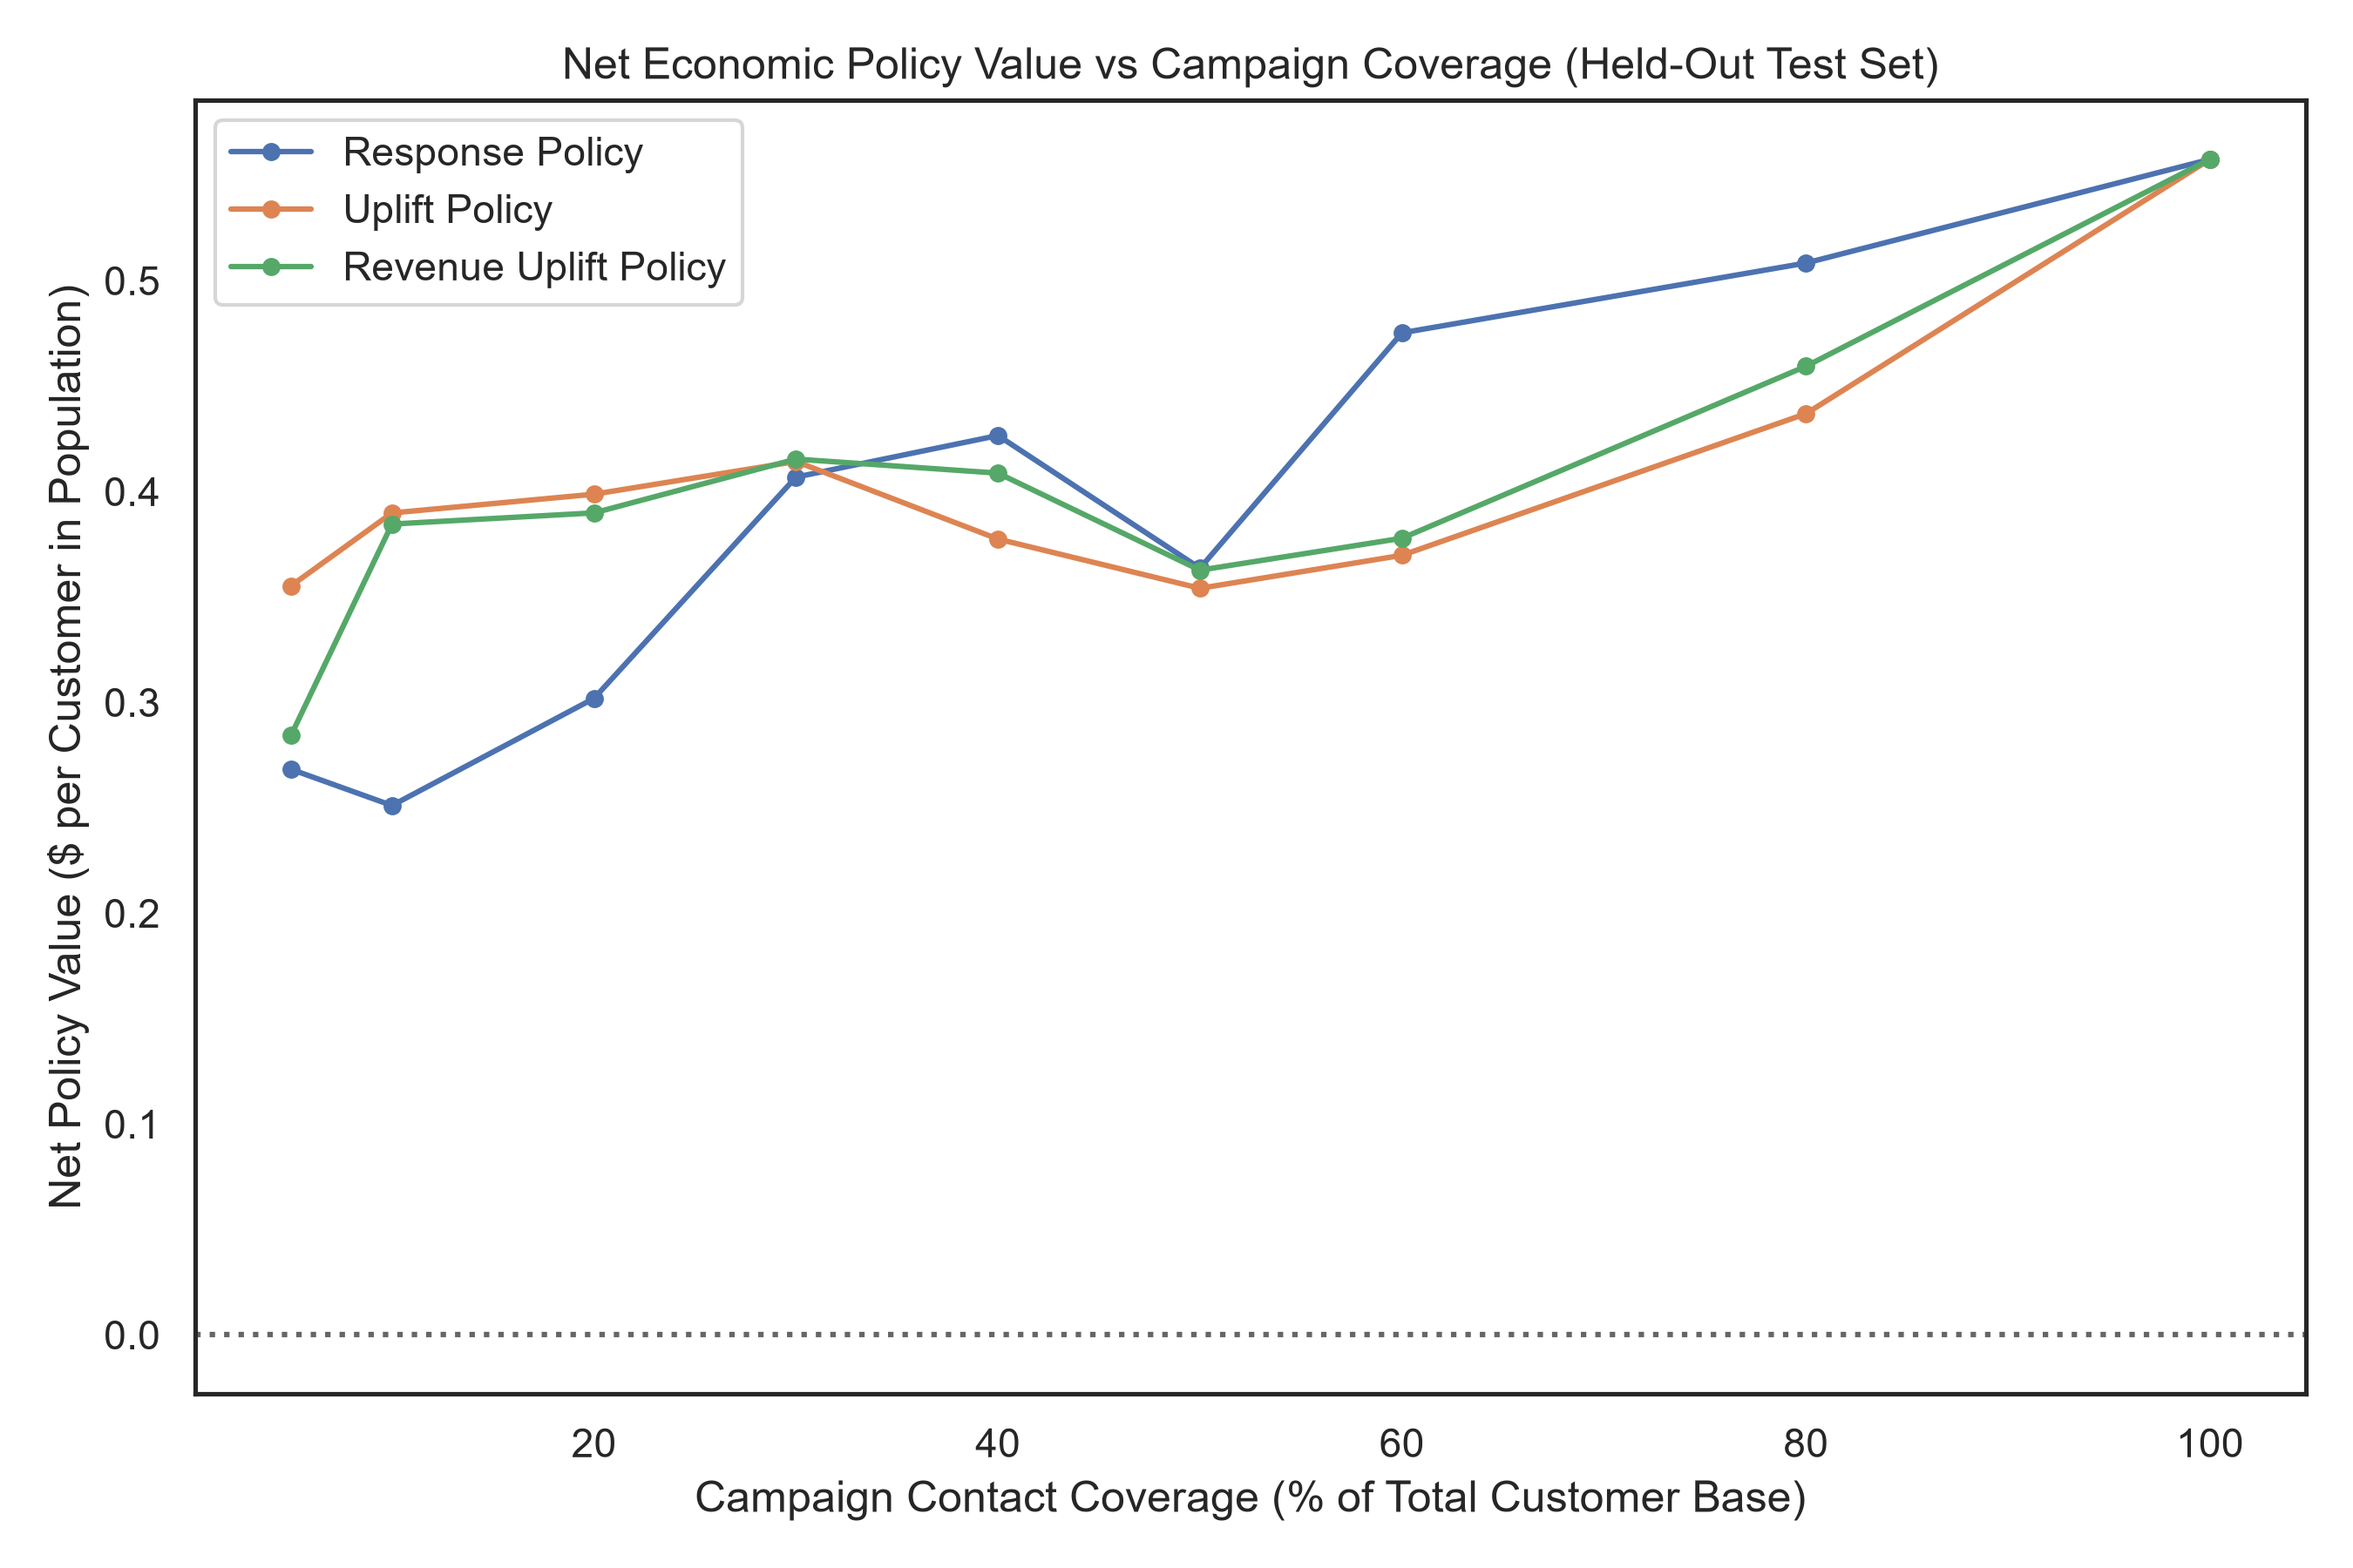
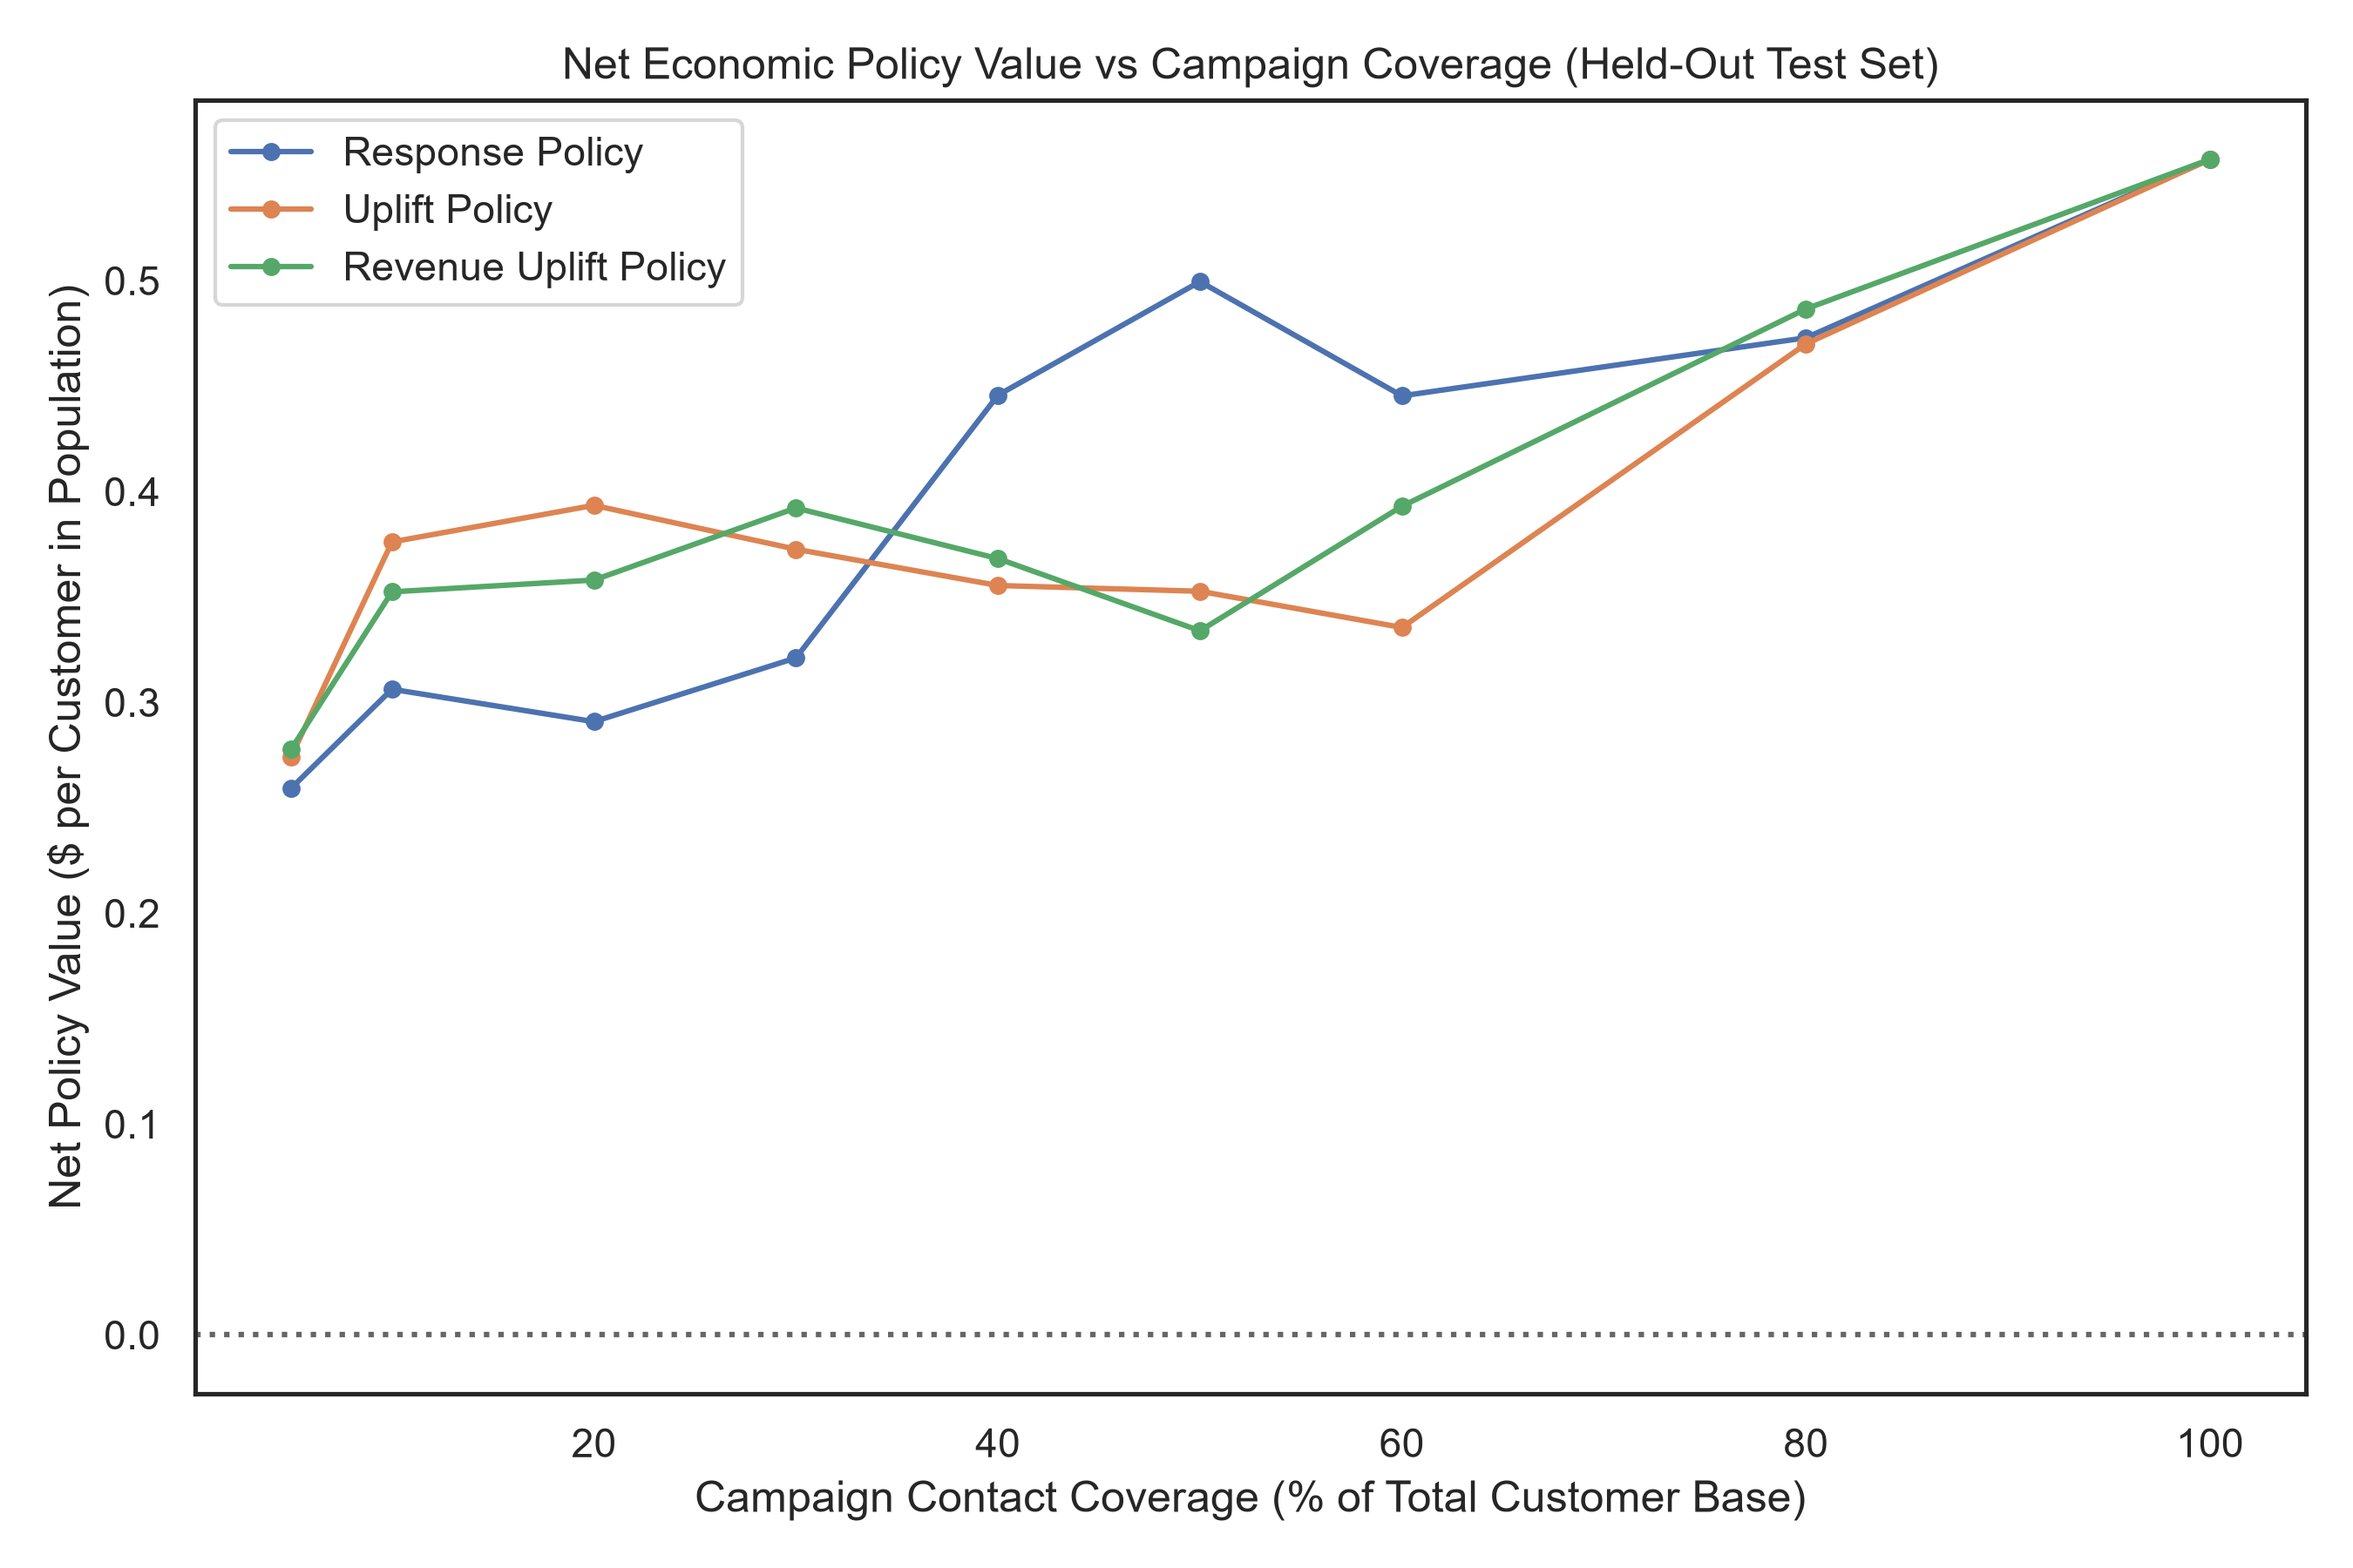
results: add empirical outputs generated on RTX 4090

diff --git a/outputs/tables/table6_regret_summary.md b/outputs/tables/table6_regret_summary.md
@@ -2,21 +2,21 @@
 
 |             |   Response Policy |   Uplift Policy |   Revenue Uplift |   Profit-Aware (Threshold) |
 |-------------|-------------------|-----------------|------------------|----------------------------|
-| M20_C010    |            0.0387 |          0.0000 |           0.0035 |                     0.0049 |
-| M20_C025    |            0.0387 |          0.0000 |           0.0035 |                     0.0020 |
-| M20_C050    |            0.0662 |          0.0275 |           0.0310 |                     0.0000 |
-| M20_C100    |            0.1584 |          0.1196 |           0.1232 |                     0.0000 |
-| M40_C010    |            0.1120 |          0.0345 |           0.0416 |                     0.0000 |
-| M40_C025    |            0.0775 |          0.0000 |           0.0071 |                     0.0059 |
-| M40_C050    |            0.0775 |          0.0000 |           0.0071 |                     0.0040 |
-| M40_C100    |            0.1325 |          0.0550 |           0.0621 |                     0.0000 |
-| M60_C010    |            0.2702 |          0.1540 |           0.1646 |                     0.0000 |
-| M60_C025    |            0.1162 |          0.0000 |           0.0106 |                     0.0559 |
-| M60_C050    |            0.1162 |          0.0000 |           0.0106 |                     0.0148 |
-| M60_C100    |            0.1274 |          0.0112 |           0.0218 |                     0.0000 |
-| M80_C010    |            0.4478 |          0.2928 |           0.3070 |                     0.0000 |
-| M80_C025    |            0.1837 |          0.0288 |           0.0429 |                     0.0000 |
-| M80_C050    |            0.1550 |          0.0000 |           0.0142 |                     0.0117 |
-| M80_C100    |            0.1550 |          0.0000 |           0.0142 |                     0.0079 |
-| MAX_REGRET  |            0.4478 |          0.2928 |           0.3070 |                     0.0559 |
-| MEAN_REGRET |            0.1421 |          0.0452 |           0.0541 |                     0.0067 |
+| M20_C010    |            0.0410 |          0.0000 |           0.0142 |                     0.0233 |
+| M20_C025    |            0.0410 |          0.0000 |           0.0142 |                     0.0028 |
+| M20_C050    |            0.0632 |          0.0222 |           0.0364 |                     0.0000 |
+| M20_C100    |            0.1618 |          0.1207 |           0.1349 |                     0.0000 |
+| M40_C010    |            0.1193 |          0.0372 |           0.0656 |                     0.0000 |
+| M40_C025    |            0.0821 |          0.0000 |           0.0284 |                     0.0692 |
+| M40_C050    |            0.0821 |          0.0000 |           0.0284 |                     0.0056 |
+| M40_C100    |            0.1265 |          0.0444 |           0.0728 |                     0.0000 |
+| M60_C010    |            0.2109 |          0.0878 |           0.1304 |                     0.0000 |
+| M60_C025    |            0.1231 |          0.0000 |           0.0425 |                     0.0416 |
+| M60_C050    |            0.1231 |          0.0000 |           0.0425 |                     0.0655 |
+| M60_C100    |            0.1231 |          0.0000 |           0.0425 |                     0.0213 |
+| M80_C010    |            0.3554 |          0.1912 |           0.2479 |                     0.0000 |
+| M80_C025    |            0.1642 |          0.0000 |           0.0567 |                     0.0365 |
+| M80_C050    |            0.1642 |          0.0000 |           0.0567 |                     0.1384 |
+| M80_C100    |            0.1642 |          0.0000 |           0.0567 |                     0.0112 |
+| MAX_REGRET  |            0.3554 |          0.1912 |           0.2479 |                     0.1384 |
+| MEAN_REGRET |            0.1341 |          0.0315 |           0.0669 |                     0.0260 |

diff --git a/outputs/tables/table4_policy_comparisons.md b/outputs/tables/table4_policy_comparisons.md
@@ -3,9 +3,9 @@
 |    | Policy                    | Targeted (%)   |   Expected Conv Rate (%) |   Expected Gross Spend ($) |   Net Economic Value ($) |
 |----|---------------------------|----------------|--------------------------|----------------------------|--------------------------|
 |  0 | Random Policy             | 20.0%          |                   0.6805 |                     0.6812 |                   0.2906 |
-|  1 | Response Policy (XGB)     | 20.0%          |                   0.5866 |                     0.7037 |                   0.3019 |
-|  2 | Uplift Policy (T-Learner) | 20.0%          |                   0.6570 |                     0.8974 |                   0.3987 |
-|  3 | Revenue Uplift Policy     | 20.0%          |                   0.6336 |                     0.8797 |                   0.3898 |
-|  4 | Profit-Aware Policy       | 20.0%          |                   0.6336 |                     0.8797 |                   0.3898 |
+|  1 | Response Policy (XGB)     | 20.0%          |                   0.5163 |                     0.6817 |                   0.2908 |
+|  2 | Uplift Policy (T-Learner) | 20.0%          |                   0.6336 |                     0.8869 |                   0.3934 |
+|  3 | Revenue Uplift Policy     | 20.0%          |                   0.5866 |                     0.8160 |                   0.3580 |
+|  4 | Profit-Aware Policy       | 20.0%          |                   0.5866 |                     0.8160 |                   0.3580 |
 
-**Bootstrap Test (Revenue Uplift vs Response)**: Delta V = $+0.0880 (95% CI: [$-0.0608, $+0.2370], p = 0.2480)
+**Bootstrap Test (Revenue Uplift vs Response)**: Delta V = $+0.0672 (95% CI: [$-0.0706, $+0.1928], p = 0.3240)

diff --git a/outputs/tables/table3_uplift_performance.md b/outputs/tables/table3_uplift_performance.md
@@ -2,9 +2,9 @@
 
 |    | Model                       | Family                |   Qini (Conv) |
 |----|-----------------------------|-----------------------|---------------|
-|  0 | Model A2 (XGBoost Response) | Response              |       -1.5847 |
-|  1 | Model B1 (S-Learner)        | Meta-Learner          |       -4.6044 |
-|  2 | Model B2 (T-Learner)        | Meta-Learner          |        0.2775 |
-|  3 | Model B3 (X-Learner)        | Meta-Learner          |       -3.1638 |
-|  4 | Model C (Doubly Robust)     | Doubly Robust         |       -2.4203 |
-|  5 | Hurdle Revenue Uplift       | Revenue Decomposition |        0.9731 |
+|  0 | Model A2 (XGBoost Response) | Response              |       -2.1997 |
+|  1 | Model B1 (S-Learner)        | Meta-Learner          |       -4.1986 |
+|  2 | Model B2 (T-Learner)        | Meta-Learner          |       -1.7132 |
+|  3 | Model B3 (X-Learner)        | Meta-Learner          |       -3.7856 |
+|  4 | Model C (Doubly Robust)     | Doubly Robust         |       -4.3984 |
+|  5 | Hurdle Revenue Uplift       | Revenue Decomposition |       -0.9369 |
